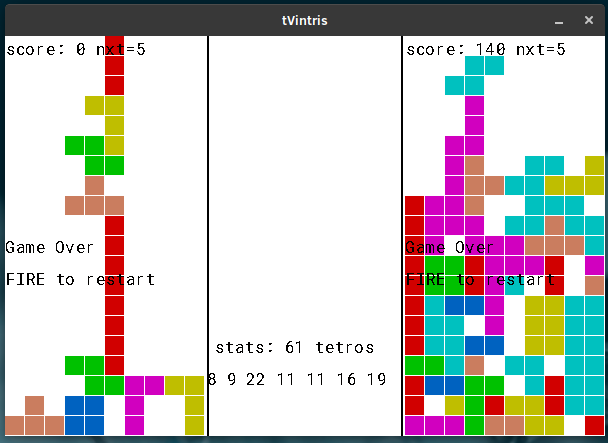
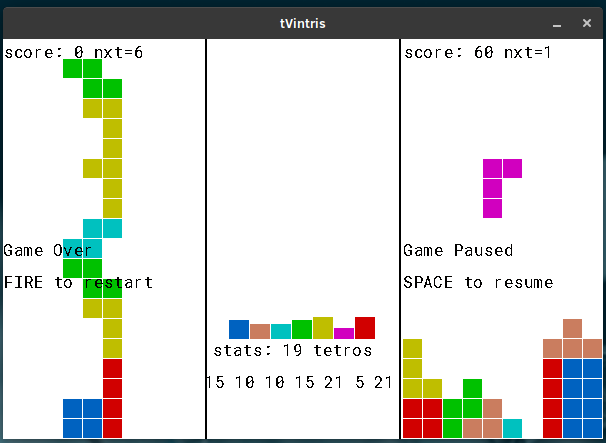
Add examples section and tVintris screenshot

diff --git a/README.md b/README.md
@@ -9,6 +9,12 @@ Current APIs available/tested in examples :
 - music (MOD mixing)
 - more to come.. (networking ?)
 
+# Examples
+
+[tVintris](https://github.com/nsauzede/vsdl2/tree/master/examples/tvintris)
+
+![tVintris screenshot](https://github.com/nsauzede/vsdl2/blob/master/examples/tvintris/tvintris.png)
+
 # Dependencies
 Ubuntu :
 `$ sudo apt install libsdl2-ttf-dev libsdl2-mixer-dev`
